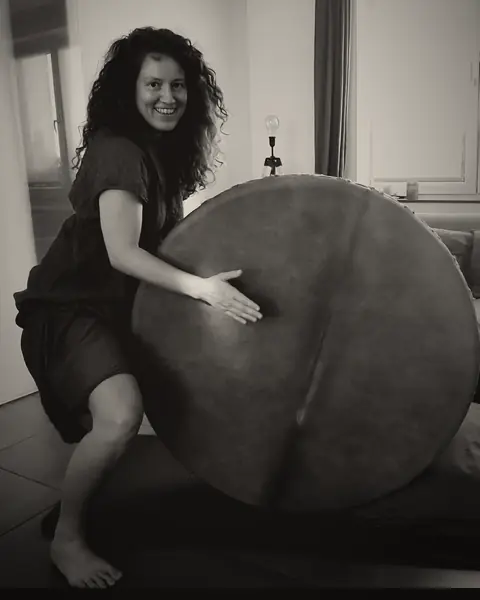
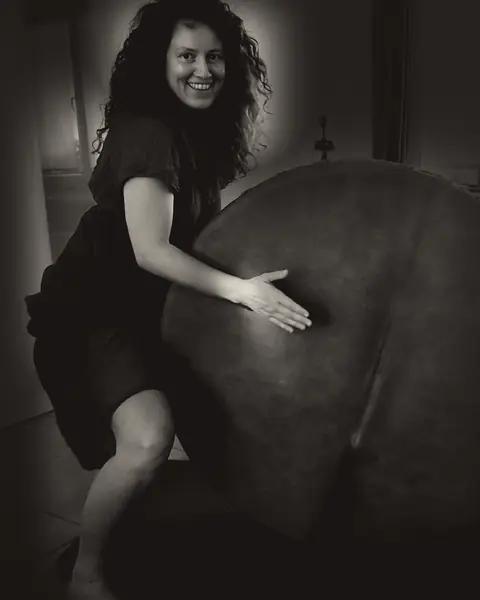
11

diff --git a/index.html b/index.html
@@ -5,13 +5,13 @@
 <meta name="viewport" content="width=device-width, initial-scale=1">
 <meta name="format-detection" content="telephone=no, date=no, address=no, email=no">
 <title>Erika Wild — Expérience 01 : sans la vue</title>
-<meta name="description" content="Les yeux bandés, en nature, à Nismes (Viroinval) : Erika Wild t'emmène dans l'expérience. Séance individuelle ou en groupe. Expérience 01 : sans la vue.">
+<meta name="description" content="Les yeux bandés, en nature, à Nismes (Viroinval) : Erika Wild t'emmène dans l'expérience. Seul·e, à deux ou en groupe. Expérience 01 : sans la vue.">
 <link rel="canonical" href="https://erikawild.be/">
 <link rel="alternate" hreflang="fr" href="https://erikawild.be/">
 <link rel="alternate" hreflang="nl" href="https://erikawild.be/nl.html">
 <link rel="alternate" hreflang="x-default" href="https://erikawild.be/">
 <meta property="og:title" content="Erika Wild — Expérience 01 : sans la vue">
-<meta property="og:description" content="Les yeux bandés, en nature, à Nismes (Viroinval) : Erika Wild t'emmène dans l'expérience. Séance individuelle ou en groupe. Expérience 01 : sans la vue.">
+<meta property="og:description" content="Les yeux bandés, en nature, à Nismes (Viroinval) : Erika Wild t'emmène dans l'expérience. Seul·e, à deux ou en groupe. Expérience 01 : sans la vue.">
 <meta property="og:type" content="website">
 <meta property="og:url" content="https://erikawild.be/">
 <meta property="og:locale" content="fr_BE">
@@ -31,12 +31,13 @@
   "name": "Erika Wild",
   "url": "https://erikawild.be/",
   "image": "https://erikawild.be/img/og-erikawild.jpg",
-  "description": "Erika Wild propose des expériences sensorielles les yeux bandés, en nature, à Nismes (Viroinval), avec la danse, la musique et le rythme. Séances individuelles (1 h) et en groupe (2 h, 8 personnes maximum). L'expérience 01 a pour thème : sans la vue.",
+  "description": "Erika Wild propose des expériences sensorielles les yeux bandés, en nature, à Nismes (Viroinval), avec la danse, la musique et le rythme. Séances individuelles (1 h), en couple (1 h 30) et en groupe (2 h, 8 personnes maximum). L'expérience 01 a pour thème : sans la vue.",
   "address": {"@type": "PostalAddress", "addressLocality": "Nismes (Viroinval)", "addressRegion": "Namur", "addressCountry": "BE"},
   "areaServed": "Viroinval",
   "knowsLanguage": ["fr", "nl"],
   "makesOffer": [
     {"@type": "Offer", "name": "Séance individuelle (1 h)", "price": "75", "priceCurrency": "EUR", "url": "https://cal.com/CAL_ID"},
+    {"@type": "Offer", "name": "Séance en couple (1 h 30, pour deux)", "price": "125", "priceCurrency": "EUR", "url": "https://cal.com/CAL_ID"},
     {"@type": "Offer", "name": "Séance en groupe (2 h, par personne, 8 maximum)", "price": "35", "priceCurrency": "EUR", "url": "https://cal.com/CAL_ID"}
   ]
 }
@@ -73,7 +74,7 @@
       <div class="hero-text">
         <p class="band-label">Expérience 01 · sans la vue</p>
         <h1>Que se <span class="nowrap">passe-t-il</span> si je te prive de <span class="veil">la vue</span>&nbsp;?</h1>
-        <p class="lede">Je t'emmène en nature à Nismes, les yeux bandés. Tu marches, tu danses, tu écoutes. Seul·e ou en groupe.</p>
+        <p class="lede">Je t'emmène en nature à Nismes, les yeux bandés. Tu marches, tu danses, tu écoutes. Seul·e, à deux ou en groupe.</p>
         <div class="btn-row">
           <a href="https://cal.com/CAL_ID" class="btn btn-primary">Réserver</a>
         </div>
@@ -91,7 +92,7 @@
           <p class="big-line">Dans un monde où le visuel prédomine et accapare notre attention au quotidien, je t'invite à participer à une expérience vivante.</p>
           <p>La vue se retire. Le reste se réveille&nbsp;: le sol sous tes pieds, le vent sur ta peau, la voix de l'autre, ton souffle.</p>
           <p class="quote">Moins regarder. Plus ressentir.</p>
-          <p class="fact">Erika Wild propose des expériences sensorielles les yeux bandés, en nature, à Nismes (Viroinval, province de Namur). Séance individuelle&nbsp;: 75&nbsp;€ (1&nbsp;h). Séance en groupe&nbsp;: 35&nbsp;€ par personne (2&nbsp;h, 8 personnes maximum).</p>
+          <p class="fact">Erika Wild propose des expériences sensorielles les yeux bandés, en nature, à Nismes (Viroinval, province de Namur). Séance individuelle&nbsp;: 75&nbsp;€ (1&nbsp;h). Séance en couple&nbsp;: 125&nbsp;€ (1&nbsp;h&nbsp;30). Séance en groupe&nbsp;: 35&nbsp;€ par personne (2&nbsp;h, 8 personnes maximum).</p>
         </div>
         <figure class="split-media"><video controls muted preload="none" poster="img/ew-film-poster.webp" width="480" height="854" aria-label="Film de 20 secondes, sans son : les yeux bandés, des mains dans la terre"><source src="img/ew-film-480.mp4" type="video/mp4">Ton navigateur ne lit pas la vidéo.</video></figure>
       </div>
@@ -127,8 +128,9 @@
     <img class="me-photo" src="img/ew-erika-800.webp" srcset="img/ew-erika-480.webp 480w, img/ew-erika-800.webp 800w" sizes="(min-width: 860px) 50vw, 100vw" width="800" height="1000" loading="lazy" alt="Erika, souriante, pieds nus, la main posée sur un grand tambour">
   </section>
 
-  <section class="section-black voices-section">
-    <figure class="band-photo"><img src="img/ew-terre-720.webp" srcset="img/ew-terre-720.webp 720w, img/ew-terre-1440.webp 1440w" sizes="100vw" width="1440" height="480" loading="lazy" alt="Deux participantes dans la terre, les yeux bandés : l'une à genoux, l'autre allongée sur le dos"></figure>
+  <figure class="band-photo band-photo--gap"><img src="img/ew-terre-720.webp" srcset="img/ew-terre-720.webp 720w, img/ew-terre-1440.webp 1440w" sizes="100vw" width="1440" height="480" loading="lazy" alt="Deux participantes dans la terre, les yeux bandés : l'une à genoux, l'autre allongée sur le dos"></figure>
+
+  <section class="section-black">
     <div class="wrap">
       <h2>Ils et elles l'ont vécu</h2>
       <div class="voices">
@@ -174,6 +176,7 @@
       <h2>Réserve ta séance</h2>
       <ul class="offers">
         <li><span><span class="offer-name">Séance individuelle</span><span class="offer-meta">1 heure, toi et moi. La vue se retire pour faire de la place&nbsp;: ton corps te guide.</span></span><span class="offer-price">75&nbsp;€</span></li>
+        <li><span><span class="offer-name">Séance en couple</span><span class="offer-meta">1 h 30, pour deux partenaires. Sans la vue, vous vous rapprochez autrement&nbsp;: par la voix, le toucher, le rythme.</span></span><span class="offer-price">125&nbsp;€</span></li>
         <li><span><span class="offer-name">Séance en groupe</span><span class="offer-meta">2 heures, 8 personnes maximum, prix par personne. Te relier à toi, à la nature et aux autres, autrement.</span></span><span class="offer-price">35&nbsp;€</span></li>
       </ul>
       <div class="btn-row">

diff --git a/nl.html b/nl.html
@@ -5,13 +5,13 @@
 <meta name="viewport" content="width=device-width, initial-scale=1">
 <meta name="format-detection" content="telephone=no, date=no, address=no, email=no">
 <title>Erika Wild — Experiment 01: zonder zicht</title>
-<meta name="description" content="Geblinddoekt, in de natuur, in Nismes (Viroinval): Erika Wild neemt je mee in de ervaring. Individueel of in groep. Experiment 01: zonder zicht.">
+<meta name="description" content="Geblinddoekt, in de natuur, in Nismes (Viroinval): Erika Wild neemt je mee in de ervaring. Alleen, met z'n tweeën of in groep. Experiment 01: zonder zicht.">
 <link rel="canonical" href="https://erikawild.be/nl.html">
 <link rel="alternate" hreflang="fr" href="https://erikawild.be/">
 <link rel="alternate" hreflang="nl" href="https://erikawild.be/nl.html">
 <link rel="alternate" hreflang="x-default" href="https://erikawild.be/">
 <meta property="og:title" content="Erika Wild — Experiment 01: zonder zicht">
-<meta property="og:description" content="Geblinddoekt, in de natuur, in Nismes (Viroinval): Erika Wild neemt je mee in de ervaring. Individueel of in groep. Experiment 01: zonder zicht.">
+<meta property="og:description" content="Geblinddoekt, in de natuur, in Nismes (Viroinval): Erika Wild neemt je mee in de ervaring. Alleen, met z'n tweeën of in groep. Experiment 01: zonder zicht.">
 <meta property="og:type" content="website">
 <meta property="og:url" content="https://erikawild.be/nl.html">
 <meta property="og:locale" content="nl_BE">
@@ -31,12 +31,13 @@
   "name": "Erika Wild",
   "url": "https://erikawild.be/",
   "image": "https://erikawild.be/img/og-erikawild.jpg",
-  "description": "Erika Wild organiseert zintuiglijke experimenten met een blinddoek, in de natuur, in Nismes (Viroinval), met dans, muziek en ritme. Individuele sessies (1 uur) en groepssessies (2 uur, maximaal 8 personen). Experiment 01 heeft als thema: zonder zicht.",
+  "description": "Erika Wild organiseert zintuiglijke experimenten met een blinddoek, in de natuur, in Nismes (Viroinval), met dans, muziek en ritme. Individuele sessies (1 uur), koppelsessies (1u30) en groepssessies (2 uur, maximaal 8 personen). Experiment 01 heeft als thema: zonder zicht.",
   "address": {"@type": "PostalAddress", "addressLocality": "Nismes (Viroinval)", "addressRegion": "Namur", "addressCountry": "BE"},
   "areaServed": "Viroinval",
   "knowsLanguage": ["fr", "nl"],
   "makesOffer": [
     {"@type": "Offer", "name": "Individuele sessie (1 u)", "price": "75", "priceCurrency": "EUR", "url": "https://cal.com/CAL_ID"},
+    {"@type": "Offer", "name": "Koppelsessie (1u30, voor twee)", "price": "125", "priceCurrency": "EUR", "url": "https://cal.com/CAL_ID"},
     {"@type": "Offer", "name": "Groepssessie (2 u, per persoon, max. 8)", "price": "35", "priceCurrency": "EUR", "url": "https://cal.com/CAL_ID"}
   ]
 }
@@ -73,7 +74,7 @@
       <div class="hero-text">
         <p class="band-label">Experiment 01 · zonder zicht</p>
         <h1>Wat gebeurt er als ik <span class="veil">het zicht</span> wegneem?</h1>
-        <p class="lede">Ik neem je geblinddoekt mee de natuur in, in Nismes. Je stapt, je danst, je luistert. Alleen of in groep.</p>
+        <p class="lede">Ik neem je geblinddoekt mee de natuur in, in Nismes. Je stapt, je danst, je luistert. Alleen, met z'n tweeën of in groep.</p>
         <div class="btn-row">
           <a href="https://cal.com/CAL_ID" class="btn btn-primary">Boek nu</a>
         </div>
@@ -91,7 +92,7 @@
           <p class="big-line">In een wereld waar beelden de hele dag je aandacht opeisen, nodig ik je uit voor een levende ervaring.</p>
           <p>Ik neem het zicht weg. De rest wordt wakker: de grond onder je voeten, de wind op je huid, de stem van de ander, je adem.</p>
           <p class="quote">Minder kijken. Meer voelen.</p>
-          <p class="fact">Erika Wild organiseert zintuiglijke experimenten met een blinddoek, in de natuur, in Nismes (Viroinval, provincie Namen). Individuele sessie: € 75 (1 uur). Groepssessie: € 35 per persoon (2 uur, maximaal 8 personen).</p>
+          <p class="fact">Erika Wild organiseert zintuiglijke experimenten met een blinddoek, in de natuur, in Nismes (Viroinval, provincie Namen). Individuele sessie: € 75 (1 uur). Koppelsessie: € 125 (1u30). Groepssessie: € 35 per persoon (2 uur, maximaal 8 personen).</p>
         </div>
         <figure class="split-media"><video controls muted preload="none" poster="img/ew-film-poster.webp" width="480" height="854" aria-label="Film van 20 seconden, zonder geluid: geblinddoekt, handen in de aarde"><source src="img/ew-film-480.mp4" type="video/mp4">Je browser speelt de video niet af.</video></figure>
       </div>
@@ -127,8 +128,9 @@
     <img class="me-photo" src="img/ew-erika-800.webp" srcset="img/ew-erika-480.webp 480w, img/ew-erika-800.webp 800w" sizes="(min-width: 860px) 50vw, 100vw" width="800" height="1000" loading="lazy" alt="Erika, lachend en blootsvoets, met haar hand op een grote trommel">
   </section>
 
-  <section class="section-black voices-section">
-    <figure class="band-photo"><img src="img/ew-terre-720.webp" srcset="img/ew-terre-720.webp 720w, img/ew-terre-1440.webp 1440w" sizes="100vw" width="1440" height="480" loading="lazy" alt="Twee deelneemsters geblinddoekt in de aarde: de ene geknield, de andere op haar rug"></figure>
+  <figure class="band-photo band-photo--gap"><img src="img/ew-terre-720.webp" srcset="img/ew-terre-720.webp 720w, img/ew-terre-1440.webp 1440w" sizes="100vw" width="1440" height="480" loading="lazy" alt="Twee deelneemsters geblinddoekt in de aarde: de ene geknield, de andere op haar rug"></figure>
+
+  <section class="section-black">
     <div class="wrap">
       <h2>Wie het al beleefde</h2>
       <div class="voices">
@@ -174,6 +176,7 @@
       <h2>Boek je sessie</h2>
       <ul class="offers">
         <li><span><span class="offer-name">Individuele sessie</span><span class="offer-meta">1 uur, jij en ik. Ik neem het zicht weg en maak plaats, zodat je lijf je leidt.</span></span><span class="offer-price">€&nbsp;75</span></li>
+        <li><span><span class="offer-name">Koppelsessie</span><span class="offer-meta">1u30, voor twee partners. Zonder zicht kom je op een andere manier dichter bij elkaar: via stem, aanraking en ritme.</span></span><span class="offer-price">€&nbsp;125</span></li>
         <li><span><span class="offer-name">Groepssessie</span><span class="offer-meta">2 uur, maximaal 8 mensen, prijs per persoon. Verbinden met jezelf, de natuur en de anderen, op een echtere manier.</span></span><span class="offer-price">€&nbsp;35</span></li>
       </ul>
       <div class="btn-row">

diff --git a/css/style.css b/css/style.css
@@ -247,7 +247,7 @@ section{ padding-block:clamp(4rem, 9vw, 8rem); }
 /* wie ik ben: zoals de hero, gespiegeld. Tekst links, foto rechts tot aan de rand */
 .me{ padding:0; display:grid; overflow:hidden; }
 .me-text{ width:var(--measure); margin:0 auto; padding-block:clamp(3rem, 7vw, 5rem); }
-.me-photo{ width:100%; height:78vw; max-height:560px; object-fit:cover; object-position:40% 25%;
+.me-photo{ width:100%; height:100vw; max-height:620px; object-fit:cover; object-position:40% 0%;
   clip-path:polygon(0 2.5rem, 100% 0, 100% 100%, 0 100%); order:-1; }
 @media (min-width:860px){
   .me{ grid-template-columns:1fr 1fr; align-items:center; min-height:min(90vh, 720px); }
@@ -264,9 +264,8 @@ section{ padding-block:clamp(4rem, 9vw, 8rem); }
 .voice figcaption{ margin-top:.5rem; font-size:.8rem; font-weight:700; letter-spacing:.18em; text-transform:uppercase; color:var(--ink-soft); }
 .voice figcaption::before{ content:"— "; }
 .voices-cap{ margin:2rem 0 0; font-size:.85rem; color:var(--ink-soft); }
-.voices-section{ padding-top:0; }
-.voices-section .band-photo{ margin-bottom:clamp(3rem, 7vw, 5rem); }
-.voices-section .band-photo img{ clip-path:polygon(0 0, 100% 0, 100% calc(100% - 2.5rem), 0 100%); }
+/* groepsfoto als los lint tussen twee secties, met zwarte ruimte erboven */
+.band-photo--gap{ margin-top:clamp(2.5rem, 6vw, 4.5rem); }
 
 /* praktisch */
 .prat{ margin:1.5rem 0 2rem; display:grid; gap:1rem; }
